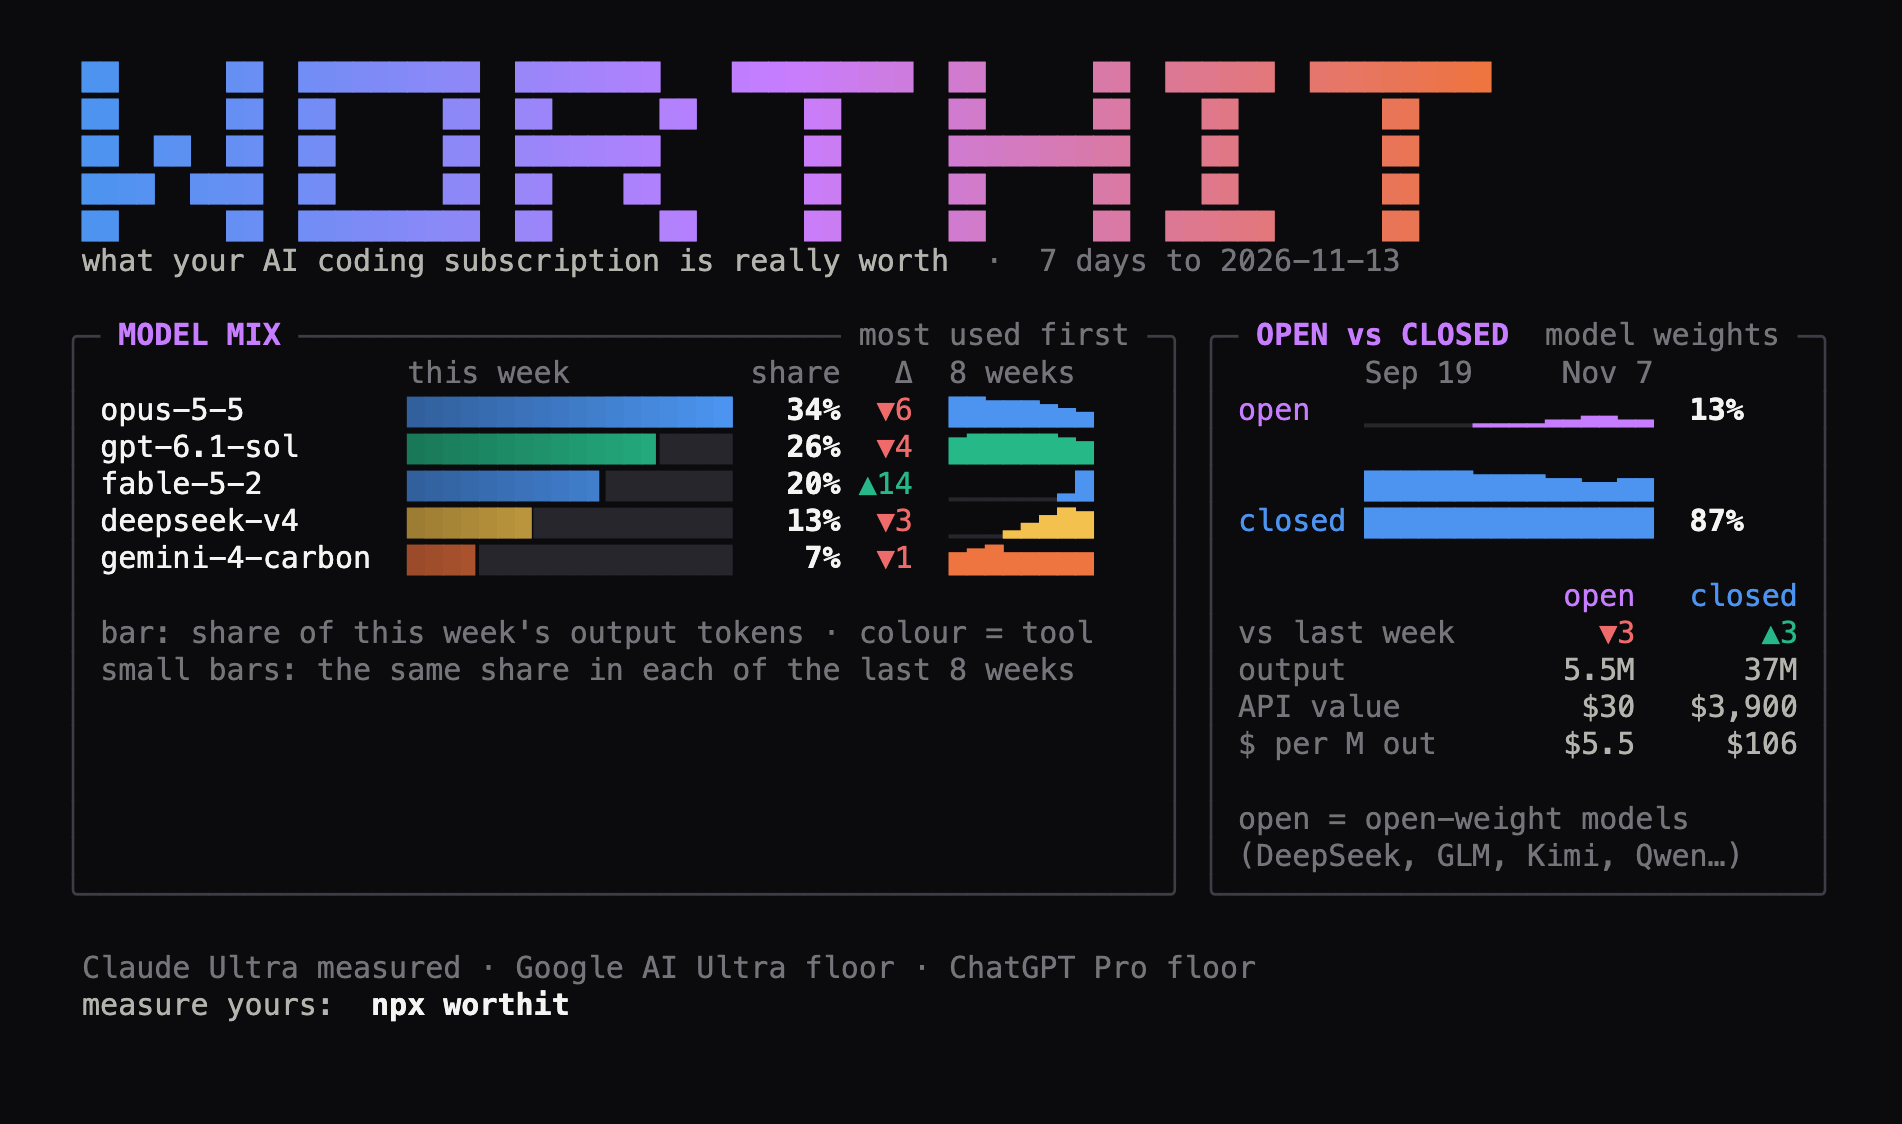
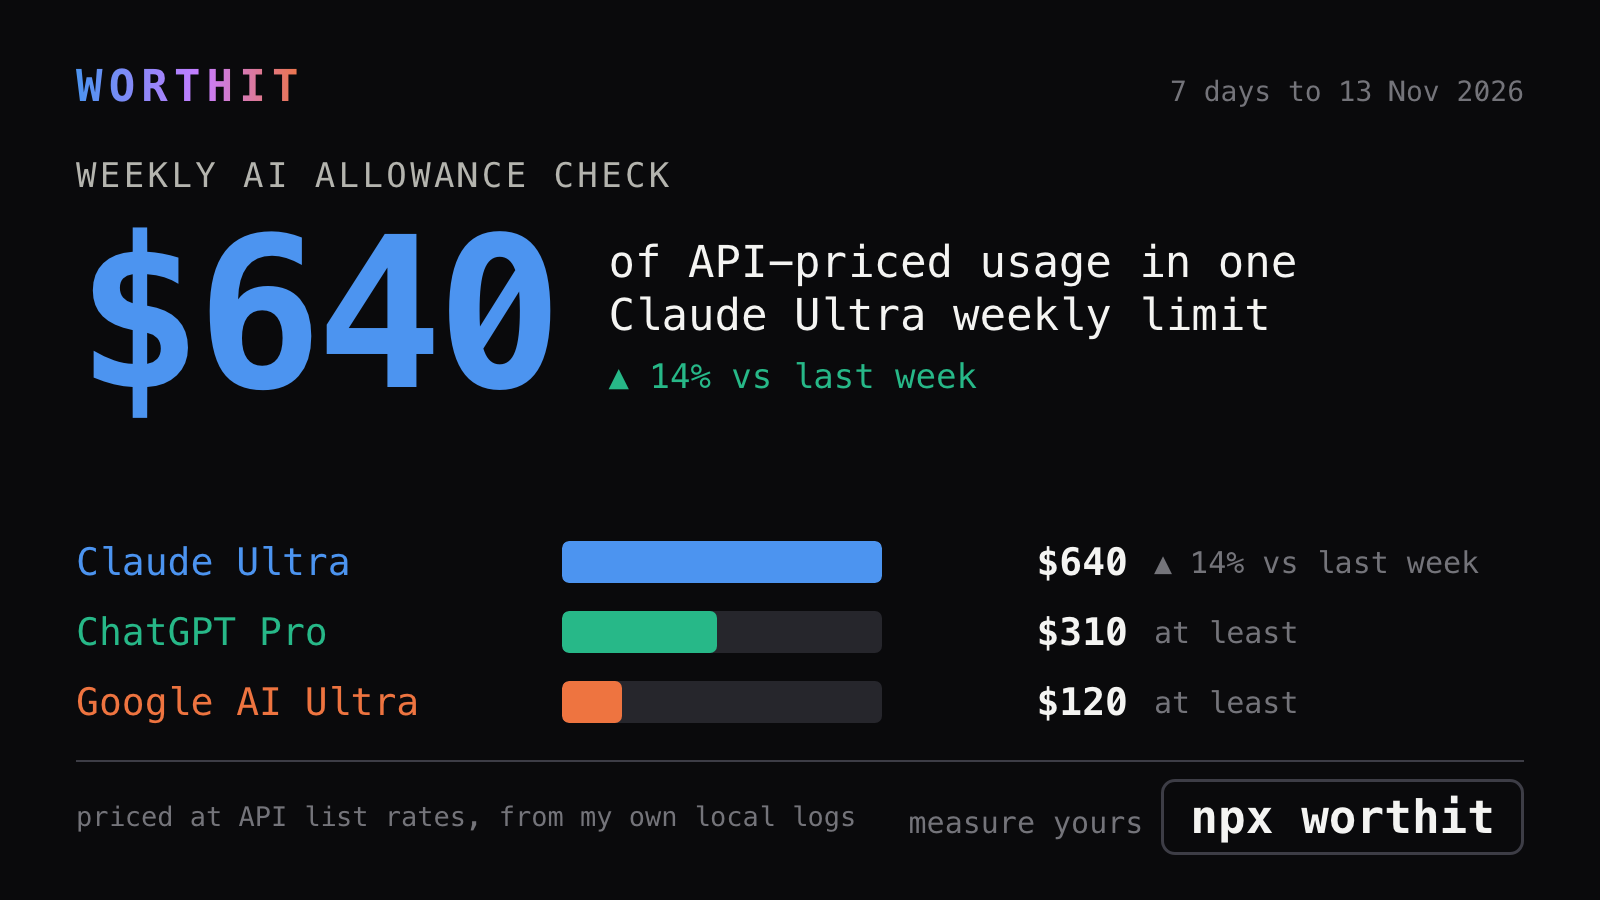
docs: README section on getting more out of a plan; share card image in the new layout (#16)

diff --git a/README.md b/README.md
@@ -12,15 +12,35 @@ npx worthit@latest
 
 It reads the logs your AI coding tools already keep, prices every request at API list rates and shows what one full weekly limit of each plan was worth. No account, no upload. The recording is `npx worthit --demo`: the whole run on sample data. Needs Node 22.5+ and Python 3.
 
-Then share a stat:
+## Get more out of what you pay for
+
+The numbers are only useful if they change what you do next week. Each part of the screen answers one question:
+
+| You see | What it tells you | What to do |
+|---|---|---|
+| **Unused allowance** with dollars still open | You paid for capacity that resets soon | Spend it before the reset: queue the refactor, the test backfill, the long review |
+| **A plan at 100% days before its reset** | You are rationing your best model | Move bulk work (search, summaries, boilerplate) to a cheaper or open model and keep the limit for the hard parts |
+| **Model mix** with dollars per million tokens | Which models do your volume and what each costs | If an expensive model writes most of your tokens, try the cheap one on the easy half and compare next week |
+| **Cost per merged PR** going up | You are spending more for each change that ships | Look at the day it jumped: a stuck agent, a retry loop, or one very large PR |
+| **The hour grid** | When your agents work and when they sit idle | Idle nights are free capacity: start long jobs before you leave |
+| **Plan ranking** | What each plan gives back for its price | Keep the one that pays, question the one that does not |
+| **Weekly history** | Whether a limit moved, and when | Tell a provider change from your own busy week before you blame either |
+
+You do not have to read tables. Type a question in the bar at the bottom ("which day cost the most?", "what should I move to an open model?") and it answers with a chart. It remembers the conversation while the screen is open.
+
+A plan marked **measured** was read from its own meter. A plan marked **at least** may have use on a machine worthit could not read, so the true figure is that or higher.
+
+## Share a stat
 
 ```sh
 npx worthit share
 ```
 
-![a share card: model mix and open vs closed models](https://raw.githubusercontent.com/namastex888/worthit/dev/docs/share-card.png)
+![a share card: one weekly limit in dollars, and the other plans below it](https://raw.githubusercontent.com/namastex888/worthit/dev/docs/share-card.png)
 
-It writes a card like this from your last run, suggests the post, copies the image and offers to open X with the text filled in. You paste the image and press Post; worthit never posts for you. Topics: `allowance` (did your weekly limits move), `open` (open vs closed models), `models`, `value`, `ranking`, `waste`, or anything in quotes: `npx worthit share "what each merged PR cost me"`.
+It draws a card like this from your last run, writes the post, copies the image and opens X with the text filled in. You paste the image and press Post; worthit never posts for you. You can also just type "share my open model stats" in the question bar.
+
+Topics: `allowance` (did your weekly limits move), `open` (open vs closed models), `models`, `value`, `ranking`, `waste`, or anything in quotes: `npx worthit share "what each merged PR cost me"`.
 
 ## For agents
 
